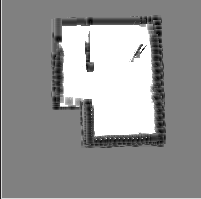
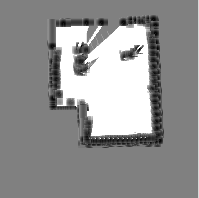
Made write up

Changed region(s): [[0.2111, 0.0606, 0.8442, 0.7576], [0.0, 0.0, 1.0, 1.0], [0.4824, 0.2727, 0.5126, 0.303]]

diff --git a/hw5/src/mapper.py b/hw5/src/mapper.py
@@ -284,7 +284,9 @@ class Mapper(tk.Frame):
             obstacle_detected = range_val < SONAR_MAX_RANGE
             distance = min(range_val, SONAR_MAX_RANGE)
 
-            self.scan_update_map(distance, full_angle, self.sonar_std_dev_x,
+            sonar_std_dev_x = self.sonar_std_dev_x * distance / SONAR_MAX_RANGE
+
+            self.scan_update_map(distance, full_angle, sonar_std_dev_x,
                                  self.sonar_std_dev_y, obstacle_detected)
 
     def update_map(self):

diff --git a/hw5/README.md b/hw5/README.md
@@ -1,0 +1,89 @@
+# Mapping
+
+## Using the Tool
+
+The mapping tool has support for command line arguments via argparse. So
+`python3 mapper.py --help` will list the arguments. The user specifies the
+sensors to use for mapping and can tweak some other variables such as the
+standard deviation to use.
+
+## Collected Results
+
+In the `images/` folder are results for laser only, sonar only, and results
+from using both at once.
+
+Something interesting which can't be seen in the static images is that my
+model handled a moving object fairly well. At one point during testing I
+accidently had the robot run into on obstacle causing it to move around. In
+the map visualizer I could see the model updating in real time representing
+the object's motion which was cool.
+
+I had the robot move around just by providing a series of interesting points
+that had the robot explore most of the space. Some of the space was left
+unexplored however. I did run the mapper using the safe goto which I've been
+slowly improving after the assignement was due.
+
+### General Process
+
+In general, the mapping logic that I used matched what we had done in class. 
+Scans (either laser or sonar) are processed by updating areas that are
+detected as empty, then processing obstacles. Obstacles have a Gaussian
+distribution of their probablistic locations which then impact the resulting
+map.
+
+For the sake of processing time, the area to consider for the Gaussian
+distribution was kept fairly small. The result is that the map can update
+faster, but the gradiant representing the probablistic location of obstacles is
+not as gradual. I think this is a reasonable trade off considering the
+hardware that this mapping algorithm will have to run on. If I were to go back
+and work on this (which I might, this was very interesting to work on), I
+would definetly spend more time experiementing with the cost/benefits of
+some of the meta parameters that control how far out the probability should
+be considered.
+
+For calculating the free space, I used Bresenham's Line drawing algorithm.
+I probably took too naive an approach when it comes to how I updated the
+free space. A better approach would probably include a more graduated
+algorithm for updating the probability that there isn't an obstacle in a given
+space.
+
+### Laser Scan
+
+The laser scan works fairly well. The approach I took didn't deviate much
+from the class discussion. It preformed to what I would consider to be a
+reasonable level. I don't have anything too fairly interesting to report on
+the laser scan usage in particular.
+
+### Sonar Scan
+
+For the sonar, originally I was going to take a more complex approach really
+diving into the wedge shape that truely represents the sensor's scanning range.
+However, after some tweaking I took a more simplistic approach of treating
+the sonar similar to a scan. The results were fairly decent. The noticable
+differences between the sonar and the lasar is the precision of the map. With
+the sonar for example, a straight wall may look more curved due to the actual
+cone shaped range of data that the sonar is reading across.
+
+One improvement I did implement was representing the standard deviation in the
+x direction as a function of the reading from the sonar itself. The idea
+being, the further the obstacle is, the wider the range the sonar id reading
+across due to the wedge shape nature of the sonar. Essentially, obstacles
+that are closer to the robot can be identified with greater certainty of
+their location. In the "sonar only image", this can be seen with the walls
+on the bottom and left being darker then the ones on the top and right. That
+is because during my testing I had the robot go closer to the left and bottom
+walls then the top and right.
+
+
+## Unrelated Tangent
+
+When working on this I noticed a fair deal of the calculations that take place
+could be parallelized. For a while I've been interested in GPU developement
+and I'm curious how well some of these algorithms would fair when attempting
+to leverage GPU based speedups. I think in situations where you have a single
+sensor in isolation, it would work fairly well allowing the developer to 
+essentially update a series of pixels at once. Where I think things start to
+become more complicated is when dealing with the case where multiple sensors
+impact a single pixel. Maybe different passes considering each sensor in
+isolation, then merging the many resulting models together? Would that
+actually improve runtime? That certainly then becomes memory intensive.
